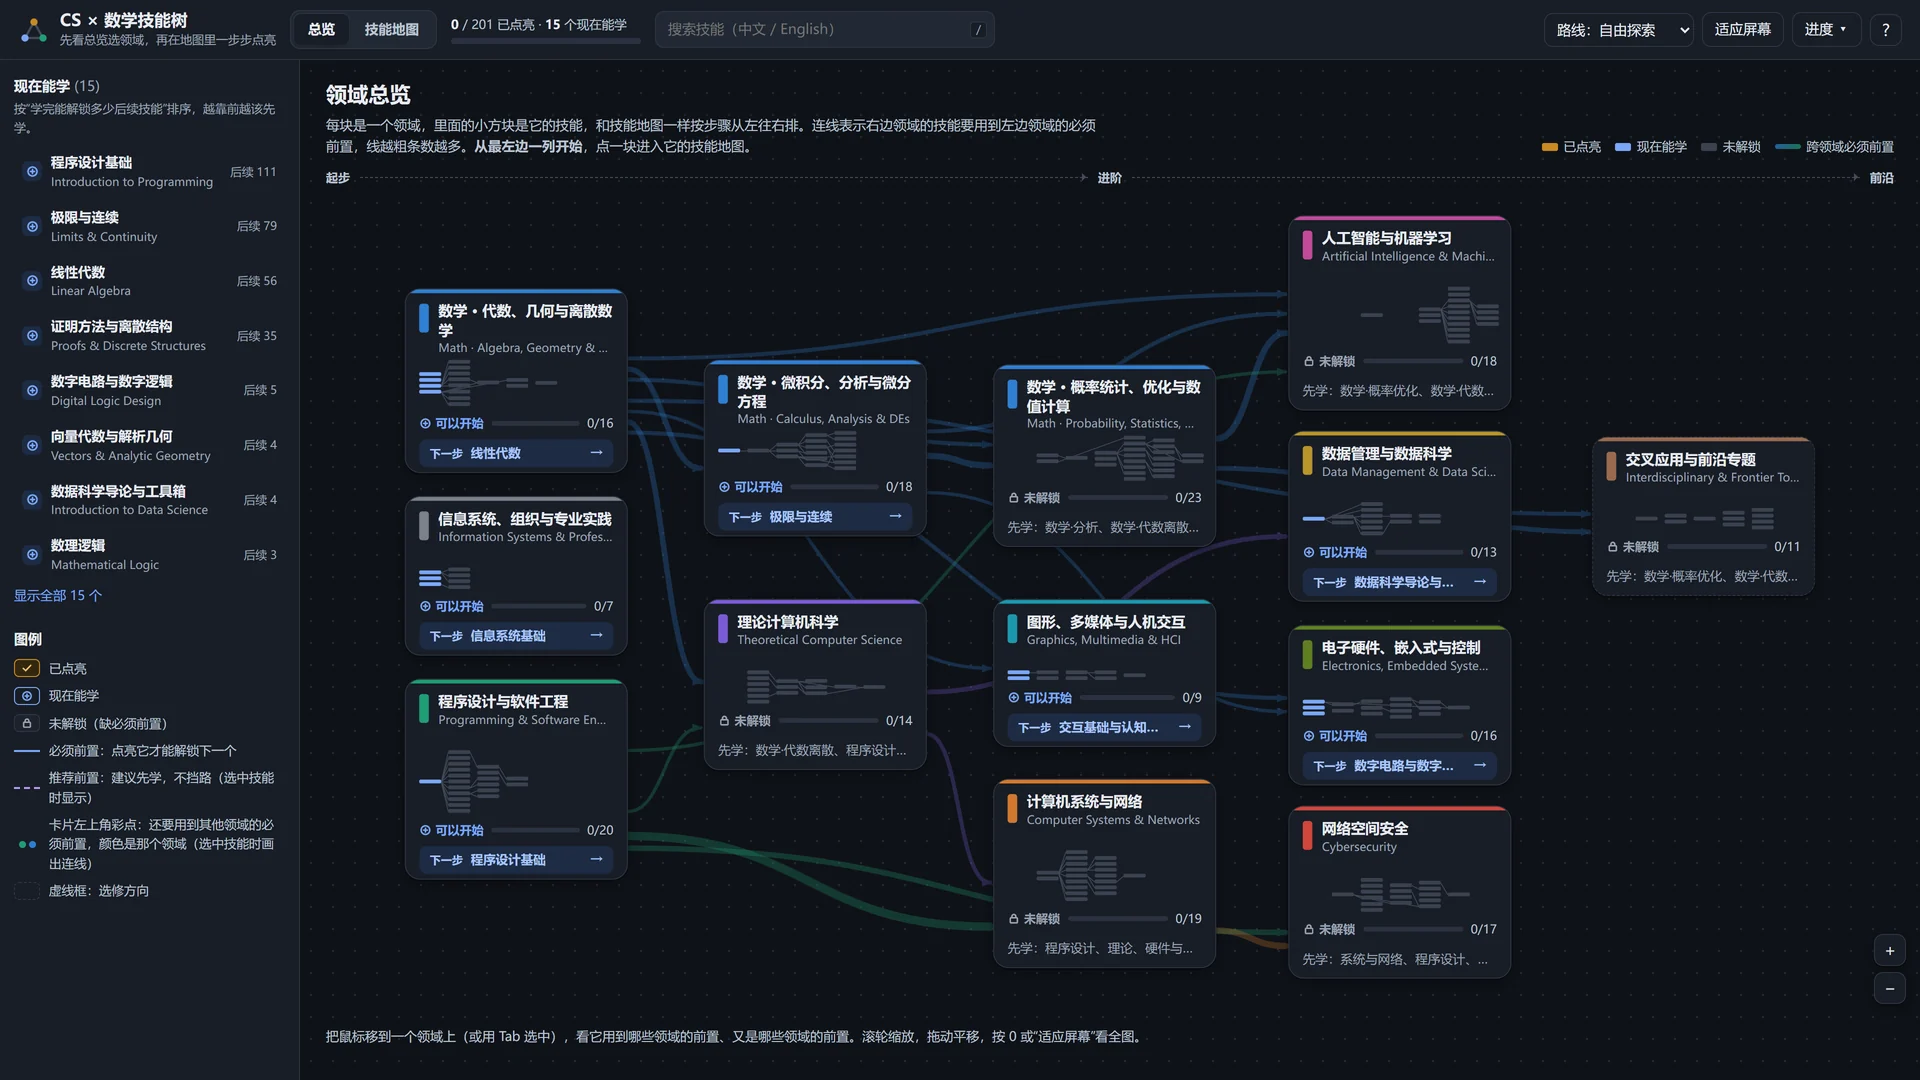
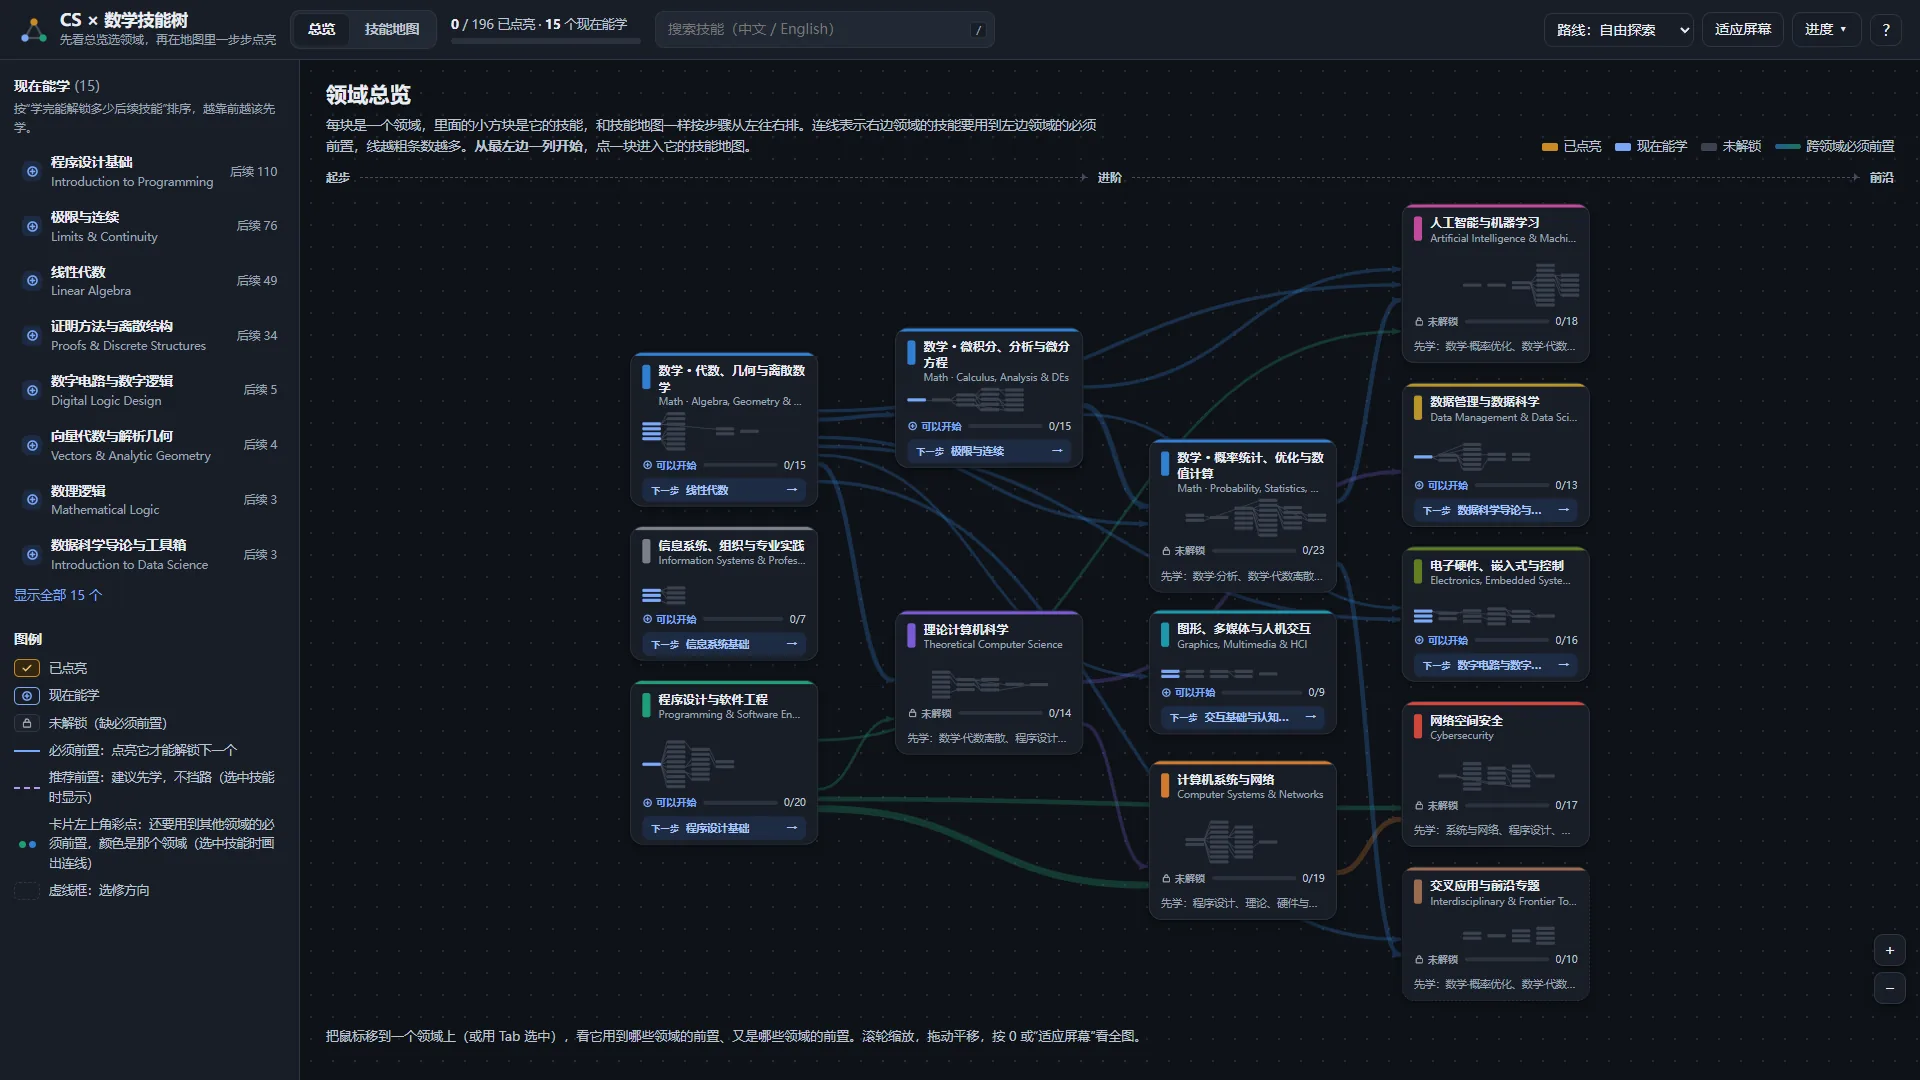
docs(cs-math-skill-tree): reproducible README screenshots, retaken for 196 skills
scripts/readme-images.mjs drives the built page in headless Edge (dark,
1920x1080) and writes the four preview WebPs; it waits for the
'已点亮…撤销' toast to hide before the goal shot.

diff --git a/docs/maintenance.md b/docs/maintenance.md
@@ -41,6 +41,7 @@ src/web/outlines.js     同上，页面第一次打开导览图时才加载
 | `python -X utf8 scripts/merge_skills.py merge/drop/move-source/drop-source …` | 改技能划分时搬数据：前置、理由、课程证据、练习题、导览图来源、学习资源、英文名一起改，见下面“改技能划分” |
 | `scripts/archive_research.py` | 把审核过的检索结果从 `temp/research/nodes/` 归档到 `data/research/nodes/` |
 | `node tests/screenshot.mjs`、`node tests/screenshot-panel.mjs <id>` | 用系统自带的 Edge 无头截图检查页面（playwright-core，不下载浏览器），含深链回归检查 |
+| `node scripts/readme-images.mjs` | 按当前构建重截 README 的四张预览图 `docs/images/{overview,skill-map,goal,guide}.webp`（1920×1080 深色，转 WebP 要 Python + Pillow）；数据变了就重跑。封面 `cover.webp` 另由 `scripts/promo/cover.py` 生成 |
 | `python -X utf8 scripts/package_web.py` | 把网页打成 `output/cs-math-skill-tree-<日期>.zip` 分享给别人（解压后双击 index.html；含 README.txt 和第三方许可证）。先跑 build |
 | `node tests/a11y.mjs [report.json]` | axe-core 按 WCAG 2.2 AA 审计 15 个界面状态（含知识导览图），并跑一遍纯键盘的主流程；结论见 `docs/hci-ux-review.md` |
 | `scripts/promo/`（`capture-app.mjs`、`build-graph.mjs`、`word-times.mjs`、`blender-tree.py`、`render-blender.sh`、`render.sh`） | 宣传片：页面截图、动画数据、Blender 3D 技能树、成片。画面代码在 `src/promo/`（Remotion），文稿 `data/promo/script.json`，步骤和坑见 `docs/promo-video.md` |
